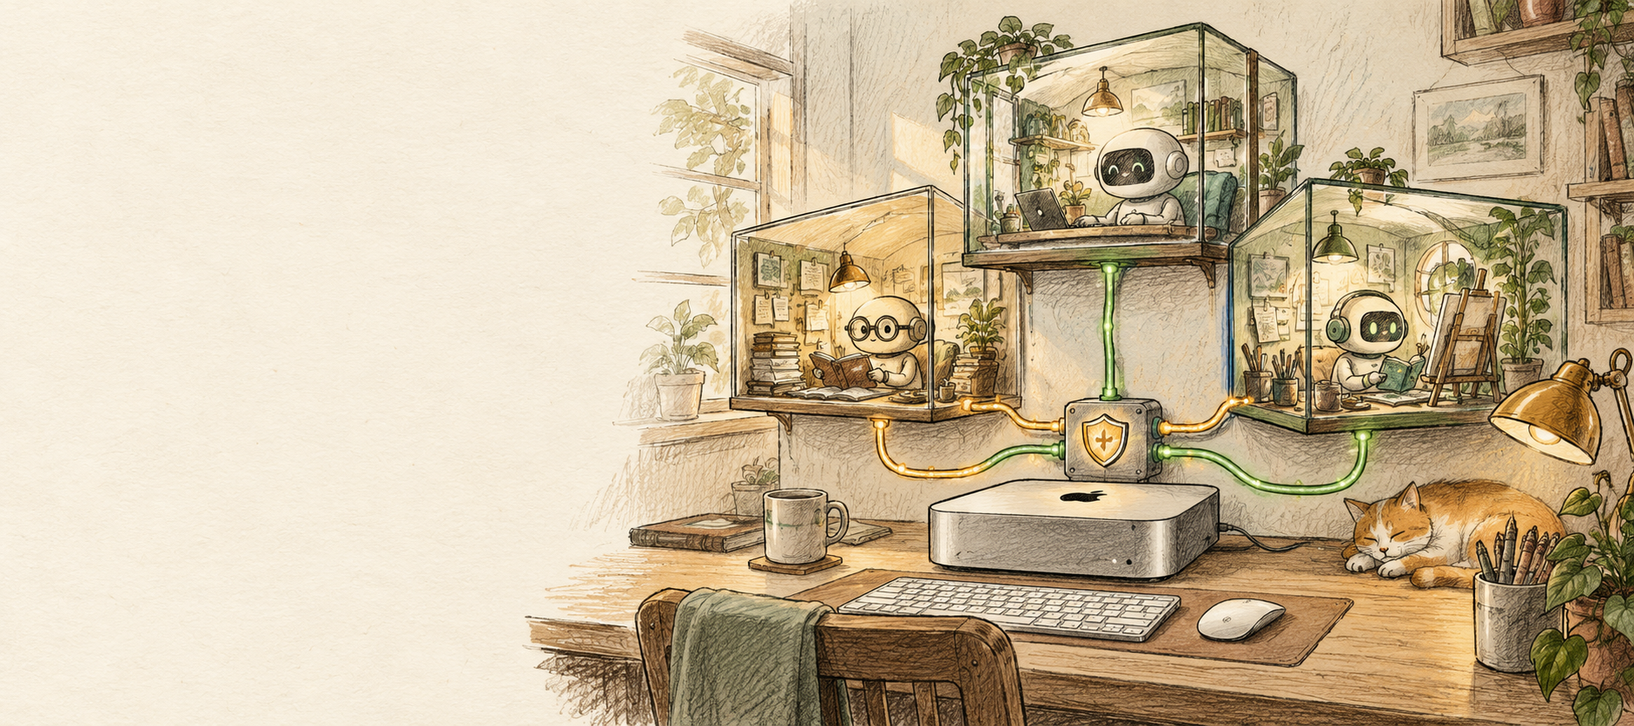
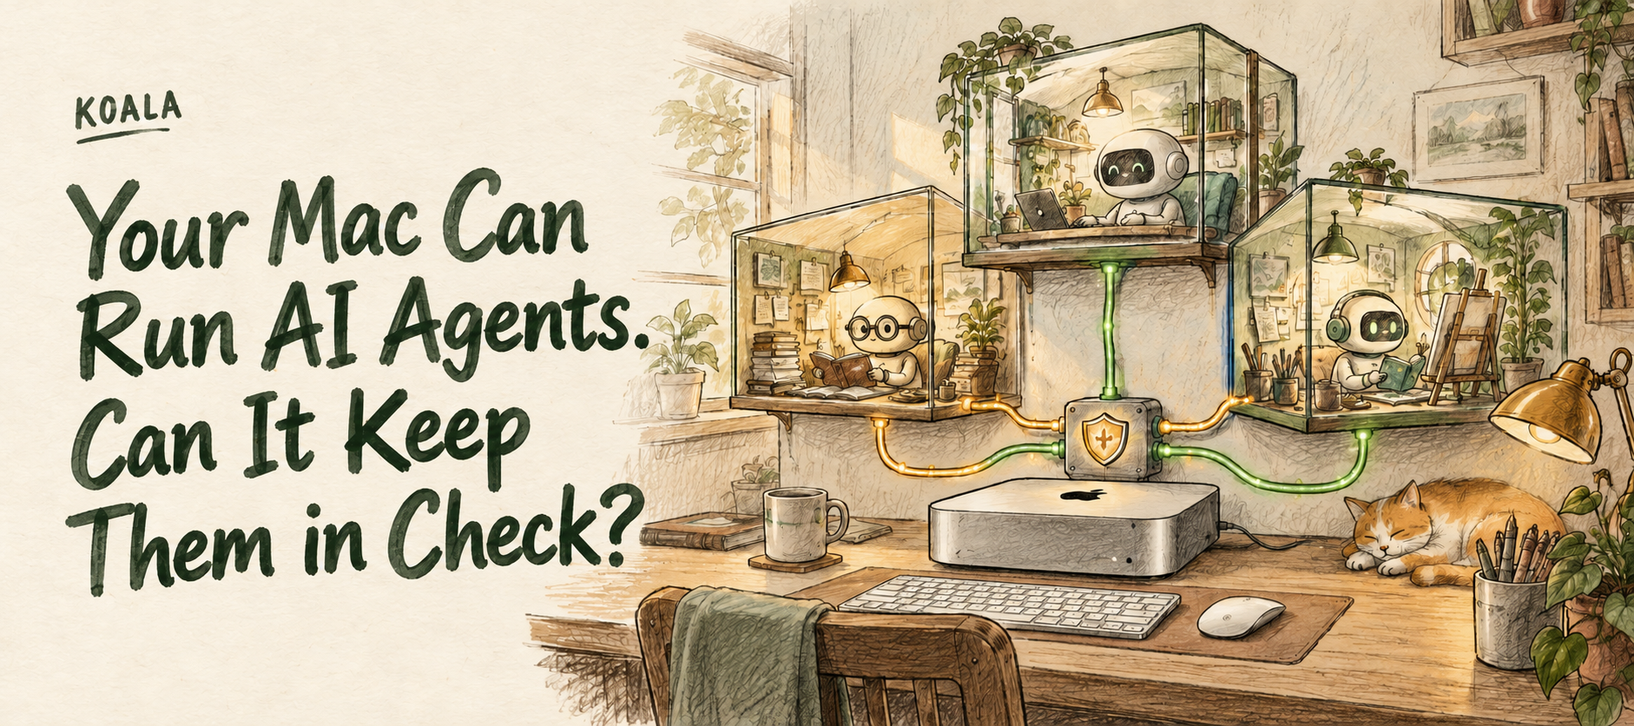
Update: Koala hero image

Changed region(s): [[0.0308, 0.0, 1.0, 1.0], [0.0308, 0.1244, 0.1233, 0.2177]]

diff --git a/2026/10/17/give-every-agent-its-own-room/index.html b/2026/10/17/give-every-agent-its-own-room/index.html
@@ -6,4 +6,4 @@
 </button>
 <button class="tbtn menu-toggle" data-menu-toggle aria-label=Menu>
 <svg viewBox="0 0 24 24" fill="none" stroke="currentColor" stroke-width="1.9" stroke-linecap="round"><path d="M4 7h16M4 12h16M4 17h16"/></svg></button></div></div></header><main id=main><div class="article-shell has-toc"><aside class=post-toc aria-label="Table of contents"><div class=toc-inner><p class=toc-title>On this page</p><nav id=TableOfContents><ul><li><a href=#the-boundary-is-the-design>The boundary is the design</a></li><li><a href=#container-or-vm-where-you-draw-it-decides-who-can-erase-it>Container or VM: where you draw it decides who can erase it</a></li><li><a href=#lean-when-small-is-enough-full-when-it-isnt>Lean when small is enough. Full when it isn&rsquo;t.</a></li><li><a href=#the-guest-sends-packets-koala-checks-the-destination>The guest sends packets. Koala checks the destination.</a></li><li><a href=#why-this-matters-now>Why this matters now</a></li></ul></nav></div></aside><div class=article-col><article><header class=post><p class=kicker>Building with ai</p><h1>Give Every Agent Its Own Room</h1><p class=dek>Running a model locally is the easy part. The agent still needs a shell, a network, and tools it can reach. Koala gives every workload its own Linux VM on Apple Silicon, with access controls that stay on the Mac.</p><div class=byline><span class=avatar>KK</span><div><b>Kunal Kushwaha</b> · Leading AI strategy and applied systems<br><time datetime=2026-10-17>October 17, 2026</time>
-<span class=sep>·</span> 5 min read</div></div></header><div class=post-content><figure><div class=fig-card><img src=hero.png alt="Three small robots work in their own glass-walled rooms on a Mac-filled desk. The access controls live outside." loading=lazy decoding=async></div><figcaption>Three small robots work in their own glass-walled rooms on a Mac-filled desk. The access controls live outside.</figcaption></figure><p>Running a model locally was the easy part. The agent connected to it is a different problem.</p><p>Mac Mini and Mac Studio quietly became the favourite hardware for home and small-team LLM labs. The unified memory architecture handles surprisingly large models, the machines run silent all day, and the price is reasonable compared to a GPU workstation. People have Ollama and MLX running on the shelf next to the router, and they are starting to point agents at them. That is where the interesting question appears.</p><p>An agent needs a shell, a filesystem, tools it can reach, somewhere to write its work. Give it those without a boundary and you have moved the risk rather than removed it. The model lives on your Mac, but the agent is browsing, writing code, calling APIs, and reading files. All of it through your network, your credentials, and your kernel.</p><p>I explored this problem a few months ago on a Linux host with <a href=https://github.com/kunalkushwaha/Kagebox>Kagebox</a>: a spare laptop running one Linux VM, an egress latch, and a credential broker that kept API keys on the host side. The lesson from that experiment was simple: a control the agent can reach is not a control. Koala is the same idea, native on Apple Silicon.</p><h2 id=the-boundary-is-the-design>The boundary is the design</h2><p>macOS already ships a native virtualization framework. Most lightweight container workflows on Mac still put workloads behind one shared Linux VM. Colima and Docker Desktop both do this. That means one kernel, one network stack, one compromise radius. Koala makes each job, service, or agent its own VM instead. It is written mostly in Swift, so the host-side controls use macOS APIs directly rather than wrapping Linux tooling.</p><figure><div class=fig-card><img src=diagram-boundary.svg alt="The Koala manager runs on the Mac. The agent runs in its own guest. Network checks and credential grants stay on the host side, where guest root cannot reach them." loading=lazy decoding=async></div><figcaption>The Koala manager runs on the Mac. The agent runs in its own guest. Network checks and credential grants stay on the host side, where guest root cannot reach them.</figcaption></figure><p>Every workload gets its own guest. The access controls stay outside it, on the Mac host. That asymmetry is the whole design.</p><h2 id=container-or-vm-where-you-draw-it-decides-who-can-erase-it>Container or VM: where you draw it decides who can erase it</h2><table><thead><tr><th>Tool</th><th>What it gives you</th><th>Where workloads are separated</th></tr></thead><tbody><tr><td>Lima</td><td>General Linux VMs; supports Apple&rsquo;s vz backend</td><td>VM boundary; often used to host container tools</td></tr><tr><td>Colima</td><td>A convenient Docker/containerd environment built on Lima</td><td>Containers share the Linux VM&rsquo;s kernel</td></tr><tr><td>Docker Desktop</td><td>Managed Docker Engine and containers on macOS</td><td>Containers share the managed Linux VM&rsquo;s kernel</td></tr><tr><td><strong>Koala</strong></td><td>One Linux VM per job, service, or agent</td><td>Each workload gets its own kernel, disk, and network policy</td></tr></tbody></table><p>The difference is where the policy enforcement runs. In a container model, the agent runs inside the shared VM, and with root in that VM it can adjust its own firewall. In Koala&rsquo;s model, the network check runs on the Mac host, in a Go process the guest has no access to. A workload can be compromised down to root and still cannot rewrite the rule that limits it.</p><p>AWS shipped Strands Box around the same time: an open-source sandbox in developer preview that uses macOS Seatbelt for containment, with policies covering shell, Python, MCP, and network actions. It keeps the agent in the developer&rsquo;s existing environment. Koala takes the VM route. Both are right that the boundary matters. They disagree on where to draw it.</p><h2 id=lean-when-small-is-enough-full-when-it-isnt>Lean when small is enough. Full when it isn&rsquo;t.</h2><figure><div class=fig-card><img src=diagram-profiles.svg alt="Two profiles: Lean runs one OCI image with minimal init. Full boots a Linux distribution with systemd and Docker Engine inside the guest. Both use a verified kernel from the Koala runtime." loading=lazy decoding=async></div><figcaption>Two profiles: Lean runs one OCI image with minimal init. Full boots a Linux distribution with systemd and Docker Engine inside the guest. Both use a verified kernel from the Koala runtime.</figcaption></figure><p><strong>Lean</strong> starts one OCI image with a minimal init: a microVM for a focused task. One image, one job, as small as it can be.</p><p><strong>Full</strong> boots a Linux distribution with systemd and Docker Engine inside the guest, for agents that need a familiar server environment, or need to run Docker inside their own VM.</p><p>In both cases the image provides the filesystem and Koala supplies the kernel. The guest cannot swap the kernel out.</p><h2 id=the-guest-sends-packets-koala-checks-the-destination>The guest sends packets. Koala checks the destination.</h2><p>Each VM has a dedicated <code>koala-net</code> helper, written in Go and built on <a href=https://github.com/containers/gvisor-tap-vsock>gVisor&rsquo;s userspace network stack</a>. Before traffic leaves through a Mac host socket, Koala checks where it is going against that VM&rsquo;s policy.</p><figure><div class=fig-card><img src=diagram-network.svg alt="Guest packets pass through koala-net and hit host policy. Permitted traffic reaches its destination. Traffic not on the allowlist is dropped on the host, outside the guest." loading=lazy decoding=async></div><figcaption>Guest packets pass through koala-net and hit host policy. Permitted traffic reaches its destination. Traffic not on the allowlist is dropped on the host, outside the guest.</figcaption></figure><p>The check runs on the host. Guest root cannot turn it off. VMs have no shared bridge or peer access by default, so a compromised workload cannot reach its neighbors through the network either.</p><p>Koala also brings <strong>policies and agent templates</strong> together. A template can prepare an agent&rsquo;s VM, its setup, its volume mounts, and its access grants, then show you the full plan before anything runs. With the credential broker, an agent can use an approved API capability while the key stays in the Mac&rsquo;s Keychain. The agent sees a proxied endpoint, never the secret.</p><h2 id=why-this-matters-now>Why this matters now</h2><p>The scarce thing in agent work is not capability. Models are capable. The scarce thing is a safe place to run them. <a href=/2026/06/09/safe-deployment-is-the-new-scarcity/>I argued a few months ago</a> that safe deployment is the new scarcity; agents are where that argument goes next. A sandbox, a credential broker, a network policy enforced from outside the guest: these are the controls we already built for people and for services, pointed at a new kind of worker.</p><p>Koala is in preview. It requires Apple Silicon and macOS 26 or newer.</p><p>Explore <a href=https://kunalkushwaha.github.io/homebrew-koala/how-it-works/>how it works</a> or the <a href=https://github.com/kunalkushwaha/homebrew-koala>project on GitHub</a>.</p><hr><p>The model lives on your Mac. The agent lives in its own room. The controls never cross the line between them.</p><p>That asymmetry is the whole design.</p></div><div class=post-foot><div class=tags><a class=tag href=/tags/ai-native/>ai-native</a><a class=tag href=/tags/agents/>agents</a><a class=tag href=/tags/security/>security</a><a class=tag href=/tags/sandbox/>sandbox</a><a class=tag href=/tags/apple-silicon/>apple-silicon</a><a class=tag href=/tags/building/>building</a></div><p class=signoff>Thanks for reading. Disagreements and counter-examples welcome.</p><nav class=post-nav aria-label="More posts"><a class=prev href=/2026/08/11/give-the-agent-a-desk-not-your-keys/><div class=dir>← Previous</div><div class=ttl>Give the Agent a Desk, Not Your Keys</div></a><span></span></nav></div><section class=comments id=comments aria-label=Comments><h2 class=comments-title>Comments</h2><div id=giscus-mount class=giscus></div><script>(function(){function t(){return document.documentElement.getAttribute("data-theme")==="dark"?"dark":"light"}var n={"data-repo":"kunalkushwaha/kunalkushwaha.github.io","data-repo-id":"MDEwOlJlcG9zaXRvcnkzMDkyNjQ3OA==","data-category":"Q&A","data-category-id":"DIC_kwDOAdfmjs4C-1AA","data-mapping":"pathname","data-strict":"0","data-reactions-enabled":"1","data-emit-metadata":"0","data-input-position":"bottom","data-lang":"en","data-loading":"lazy","data-theme":t()},e=document.createElement("script");e.src="https://giscus.app/client.js",Object.keys(n).forEach(function(t){e.setAttribute(t,n[t])}),e.crossOrigin="anonymous",e.async=!0,document.getElementById("giscus-mount").appendChild(e),new MutationObserver(function(){var e=document.querySelector("iframe.giscus-frame");e&&e.contentWindow.postMessage({giscus:{setConfig:{theme:t()}}},"https://giscus.app")}).observe(document.documentElement,{attributes:!0,attributeFilter:["data-theme"]})})()</script></section></article></div></div></main><footer class=site-foot><div class=wrap-wide><div class=cols><p class=blurb>Written while building. If it resonated, the best compliment is to argue with it.</p><div class=links><a href=https://github.com/kunalkushwaha aria-label=GitHub rel=me>GitHub</a><a href=https://www.linkedin.com/in/kunalkushwaha/ aria-label=LinkedIn rel=me>LinkedIn</a><a href=https://x.com/kunalkushwaha aria-label=X rel=me>X / Twitter</a><a href=mailto:kunal.kushwaha@gmail.com>Email</a></div></div><p class=fine>© 2026 Kunal Kushwaha · Leading AI strategy and applied systems · Built with Hugo & the Praxis theme.</p></div></footer><script src=/js/app.min.ab1fc0504fe5d7bc789f2a8b7fda2fa29c8c2a836ce3f3f26257764bf016161a.js integrity="sha256-qx/AUE/l17x4nyqLf9ovopyMKoNs4/PyYld2S/AWFho=" defer></script></body></html>
+<span class=sep>·</span> 5 min read</div></div></header><div class=post-content><figure><div class=fig-card><img src=hero.png alt="Your Mac Can Run AI Agents. Can It Keep Them in Check? Three robots work in their own glass-walled rooms, connected to a Mac Mini on the desk below." loading=lazy decoding=async></div><figcaption>Your Mac Can Run AI Agents. Can It Keep Them in Check? Three robots work in their own glass-walled rooms, connected to a Mac Mini on the desk below.</figcaption></figure><p>Running a model locally was the easy part. The agent connected to it is a different problem.</p><p>Mac Mini and Mac Studio quietly became the favourite hardware for home and small-team LLM labs. The unified memory architecture handles surprisingly large models, the machines run silent all day, and the price is reasonable compared to a GPU workstation. People have Ollama and MLX running on the shelf next to the router, and they are starting to point agents at them. That is where the interesting question appears.</p><p>An agent needs a shell, a filesystem, tools it can reach, somewhere to write its work. Give it those without a boundary and you have moved the risk rather than removed it. The model lives on your Mac, but the agent is browsing, writing code, calling APIs, and reading files. All of it through your network, your credentials, and your kernel.</p><p>I explored this problem a few months ago on a Linux host with <a href=https://github.com/kunalkushwaha/Kagebox>Kagebox</a>: a spare laptop running one Linux VM, an egress latch, and a credential broker that kept API keys on the host side. The lesson from that experiment was simple: a control the agent can reach is not a control. Koala is the same idea, native on Apple Silicon.</p><h2 id=the-boundary-is-the-design>The boundary is the design</h2><p>macOS already ships a native virtualization framework. Most lightweight container workflows on Mac still put workloads behind one shared Linux VM. Colima and Docker Desktop both do this. That means one kernel, one network stack, one compromise radius. Koala makes each job, service, or agent its own VM instead. It is written mostly in Swift, so the host-side controls use macOS APIs directly rather than wrapping Linux tooling.</p><figure><div class=fig-card><img src=diagram-boundary.svg alt="The Koala manager runs on the Mac. The agent runs in its own guest. Network checks and credential grants stay on the host side, where guest root cannot reach them." loading=lazy decoding=async></div><figcaption>The Koala manager runs on the Mac. The agent runs in its own guest. Network checks and credential grants stay on the host side, where guest root cannot reach them.</figcaption></figure><p>Every workload gets its own guest. The access controls stay outside it, on the Mac host. That asymmetry is the whole design.</p><h2 id=container-or-vm-where-you-draw-it-decides-who-can-erase-it>Container or VM: where you draw it decides who can erase it</h2><table><thead><tr><th>Tool</th><th>What it gives you</th><th>Where workloads are separated</th></tr></thead><tbody><tr><td>Lima</td><td>General Linux VMs; supports Apple&rsquo;s vz backend</td><td>VM boundary; often used to host container tools</td></tr><tr><td>Colima</td><td>A convenient Docker/containerd environment built on Lima</td><td>Containers share the Linux VM&rsquo;s kernel</td></tr><tr><td>Docker Desktop</td><td>Managed Docker Engine and containers on macOS</td><td>Containers share the managed Linux VM&rsquo;s kernel</td></tr><tr><td><strong>Koala</strong></td><td>One Linux VM per job, service, or agent</td><td>Each workload gets its own kernel, disk, and network policy</td></tr></tbody></table><p>The difference is where the policy enforcement runs. In a container model, the agent runs inside the shared VM, and with root in that VM it can adjust its own firewall. In Koala&rsquo;s model, the network check runs on the Mac host, in a Go process the guest has no access to. A workload can be compromised down to root and still cannot rewrite the rule that limits it.</p><p>AWS shipped Strands Box around the same time: an open-source sandbox in developer preview that uses macOS Seatbelt for containment, with policies covering shell, Python, MCP, and network actions. It keeps the agent in the developer&rsquo;s existing environment. Koala takes the VM route. Both are right that the boundary matters. They disagree on where to draw it.</p><h2 id=lean-when-small-is-enough-full-when-it-isnt>Lean when small is enough. Full when it isn&rsquo;t.</h2><figure><div class=fig-card><img src=diagram-profiles.svg alt="Two profiles: Lean runs one OCI image with minimal init. Full boots a Linux distribution with systemd and Docker Engine inside the guest. Both use a verified kernel from the Koala runtime." loading=lazy decoding=async></div><figcaption>Two profiles: Lean runs one OCI image with minimal init. Full boots a Linux distribution with systemd and Docker Engine inside the guest. Both use a verified kernel from the Koala runtime.</figcaption></figure><p><strong>Lean</strong> starts one OCI image with a minimal init: a microVM for a focused task. One image, one job, as small as it can be.</p><p><strong>Full</strong> boots a Linux distribution with systemd and Docker Engine inside the guest, for agents that need a familiar server environment, or need to run Docker inside their own VM.</p><p>In both cases the image provides the filesystem and Koala supplies the kernel. The guest cannot swap the kernel out.</p><h2 id=the-guest-sends-packets-koala-checks-the-destination>The guest sends packets. Koala checks the destination.</h2><p>Each VM has a dedicated <code>koala-net</code> helper, written in Go and built on <a href=https://github.com/containers/gvisor-tap-vsock>gVisor&rsquo;s userspace network stack</a>. Before traffic leaves through a Mac host socket, Koala checks where it is going against that VM&rsquo;s policy.</p><figure><div class=fig-card><img src=diagram-network.svg alt="Guest packets pass through koala-net and hit host policy. Permitted traffic reaches its destination. Traffic not on the allowlist is dropped on the host, outside the guest." loading=lazy decoding=async></div><figcaption>Guest packets pass through koala-net and hit host policy. Permitted traffic reaches its destination. Traffic not on the allowlist is dropped on the host, outside the guest.</figcaption></figure><p>The check runs on the host. Guest root cannot turn it off. VMs have no shared bridge or peer access by default, so a compromised workload cannot reach its neighbors through the network either.</p><p>Koala also brings <strong>policies and agent templates</strong> together. A template can prepare an agent&rsquo;s VM, its setup, its volume mounts, and its access grants, then show you the full plan before anything runs. With the credential broker, an agent can use an approved API capability while the key stays in the Mac&rsquo;s Keychain. The agent sees a proxied endpoint, never the secret.</p><h2 id=why-this-matters-now>Why this matters now</h2><p>The scarce thing in agent work is not capability. Models are capable. The scarce thing is a safe place to run them. <a href=/2026/06/09/safe-deployment-is-the-new-scarcity/>I argued a few months ago</a> that safe deployment is the new scarcity; agents are where that argument goes next. A sandbox, a credential broker, a network policy enforced from outside the guest: these are the controls we already built for people and for services, pointed at a new kind of worker.</p><p>Koala is in preview. It requires Apple Silicon and macOS 26 or newer.</p><p>Explore <a href=https://kunalkushwaha.github.io/homebrew-koala/how-it-works/>how it works</a> or the <a href=https://github.com/kunalkushwaha/homebrew-koala>project on GitHub</a>.</p><hr><p>The model lives on your Mac. The agent lives in its own room. The controls never cross the line between them.</p><p>That asymmetry is the whole design.</p></div><div class=post-foot><div class=tags><a class=tag href=/tags/ai-native/>ai-native</a><a class=tag href=/tags/agents/>agents</a><a class=tag href=/tags/security/>security</a><a class=tag href=/tags/sandbox/>sandbox</a><a class=tag href=/tags/apple-silicon/>apple-silicon</a><a class=tag href=/tags/building/>building</a></div><p class=signoff>Thanks for reading. Disagreements and counter-examples welcome.</p><nav class=post-nav aria-label="More posts"><a class=prev href=/2026/08/11/give-the-agent-a-desk-not-your-keys/><div class=dir>← Previous</div><div class=ttl>Give the Agent a Desk, Not Your Keys</div></a><span></span></nav></div><section class=comments id=comments aria-label=Comments><h2 class=comments-title>Comments</h2><div id=giscus-mount class=giscus></div><script>(function(){function t(){return document.documentElement.getAttribute("data-theme")==="dark"?"dark":"light"}var n={"data-repo":"kunalkushwaha/kunalkushwaha.github.io","data-repo-id":"MDEwOlJlcG9zaXRvcnkzMDkyNjQ3OA==","data-category":"Q&A","data-category-id":"DIC_kwDOAdfmjs4C-1AA","data-mapping":"pathname","data-strict":"0","data-reactions-enabled":"1","data-emit-metadata":"0","data-input-position":"bottom","data-lang":"en","data-loading":"lazy","data-theme":t()},e=document.createElement("script");e.src="https://giscus.app/client.js",Object.keys(n).forEach(function(t){e.setAttribute(t,n[t])}),e.crossOrigin="anonymous",e.async=!0,document.getElementById("giscus-mount").appendChild(e),new MutationObserver(function(){var e=document.querySelector("iframe.giscus-frame");e&&e.contentWindow.postMessage({giscus:{setConfig:{theme:t()}}},"https://giscus.app")}).observe(document.documentElement,{attributes:!0,attributeFilter:["data-theme"]})})()</script></section></article></div></div></main><footer class=site-foot><div class=wrap-wide><div class=cols><p class=blurb>Written while building. If it resonated, the best compliment is to argue with it.</p><div class=links><a href=https://github.com/kunalkushwaha aria-label=GitHub rel=me>GitHub</a><a href=https://www.linkedin.com/in/kunalkushwaha/ aria-label=LinkedIn rel=me>LinkedIn</a><a href=https://x.com/kunalkushwaha aria-label=X rel=me>X / Twitter</a><a href=mailto:kunal.kushwaha@gmail.com>Email</a></div></div><p class=fine>© 2026 Kunal Kushwaha · Leading AI strategy and applied systems · Built with Hugo & the Praxis theme.</p></div></footer><script src=/js/app.min.ab1fc0504fe5d7bc789f2a8b7fda2fa29c8c2a836ce3f3f26257764bf016161a.js integrity="sha256-qx/AUE/l17x4nyqLf9ovopyMKoNs4/PyYld2S/AWFho=" defer></script></body></html>

diff --git a/tags/ai-native/index.html b/tags/ai-native/index.html
@@ -1,11 +1,11 @@
-<!doctype html><html lang=en-us data-palette=cobalt data-theme=light><head><meta charset=utf-8><meta name=viewport content="width=device-width,initial-scale=1"><title>Ai-Native · Kunal Kushwaha</title><meta name=description content="Kunal Kushwaha leads applied AI and builds agentic systems, and is the founder of AgenticGoKit, writing about AI leadership, agentic AI, cloud native platforms, and what he's learning along the way."><meta name=author content="Kunal Kushwaha"><meta name=theme-color content="#c0441f"><meta property="og:site_name" content="Kunal Kushwaha"><meta property="og:title" content="Ai-Native"><meta property="og:description" content="Kunal Kushwaha leads applied AI and builds agentic systems, and is the founder of AgenticGoKit, writing about AI leadership, agentic AI, cloud native platforms, and what he's learning along the way."><meta property="og:type" content="website"><meta property="og:url" content="https://kunalkushwaha.github.io/tags/ai-native/"><meta name=twitter:card content="summary_large_image"><meta name=twitter:creator content="@kunalkushwaha"><link rel=canonical href=https://kunalkushwaha.github.io/tags/ai-native/><link rel=alternate type=application/rss+xml href=https://kunalkushwaha.github.io/tags/ai-native/index.xml title="Kunal Kushwaha"><link rel=preconnect href=https://fonts.googleapis.com><link rel=preconnect href=https://fonts.gstatic.com crossorigin><link href="https://fonts.googleapis.com/css2?family=Fraunces:ital,opsz,wght@0,9..144,400;0,9..144,500;0,9..144,600;0,9..144,700;1,9..144,400;1,9..144,500&family=Newsreader:ital,opsz,wght@0,6..72,400;0,6..72,500;1,6..72,400&family=JetBrains+Mono:wght@400;500&display=swap" rel=stylesheet><link rel=stylesheet href=/css/main.min.78f537c634de241d2b2ef310b8ff55bfc824549dc4cf6e69ab38a1972dc2b391.css integrity="sha256-ePU3xjTeJB0rLvMQuP9Vv8gkVJ3Ez25pqzihly3Cs5E="><link rel=alternate type=application/rss+xml href=https://kunalkushwaha.github.io/tags/ai-native/index.xml title="Kunal Kushwaha"><script async src="https://www.googletagmanager.com/gtag/js?id=G-K16B935QET"></script><script>window.dataLayer=window.dataLayer||[];function gtag(){dataLayer.push(arguments)}gtag("js",new Date),gtag("config","G-K16B935QET")</script><script>(function(){try{var t,n,e=localStorage.getItem("praxis-theme");e||(n=window.matchMedia&&window.matchMedia("(prefers-color-scheme: dark)").matches,e=n?"dark":"light"),document.documentElement.setAttribute("data-theme",e),t=localStorage.getItem("praxis-palette"),t&&document.documentElement.setAttribute("data-palette",t)}catch{}})()</script></head><body><a href=#main class=skip-link>Skip to content</a><div class=grain aria-hidden=true></div><header class=site-head><div class="wrap-wide bar"><a class=brand href=/ aria-label="Kunal Kushwaha — home"><span class=mark>KK</span>
+<!doctype html><html lang=en-us data-palette=cobalt data-theme=light><head><meta charset=utf-8><meta name=viewport content="width=device-width,initial-scale=1"><title>AI Native · Kunal Kushwaha</title><meta name=description content="Kunal Kushwaha leads applied AI and builds agentic systems, and is the founder of AgenticGoKit, writing about AI leadership, agentic AI, cloud native platforms, and what he's learning along the way."><meta name=author content="Kunal Kushwaha"><meta name=theme-color content="#c0441f"><meta property="og:site_name" content="Kunal Kushwaha"><meta property="og:title" content="AI Native"><meta property="og:description" content="Kunal Kushwaha leads applied AI and builds agentic systems, and is the founder of AgenticGoKit, writing about AI leadership, agentic AI, cloud native platforms, and what he's learning along the way."><meta property="og:type" content="website"><meta property="og:url" content="https://kunalkushwaha.github.io/tags/ai-native/"><meta name=twitter:card content="summary_large_image"><meta name=twitter:creator content="@kunalkushwaha"><link rel=canonical href=https://kunalkushwaha.github.io/tags/ai-native/><link rel=alternate type=application/rss+xml href=https://kunalkushwaha.github.io/tags/ai-native/index.xml title="Kunal Kushwaha"><link rel=preconnect href=https://fonts.googleapis.com><link rel=preconnect href=https://fonts.gstatic.com crossorigin><link href="https://fonts.googleapis.com/css2?family=Fraunces:ital,opsz,wght@0,9..144,400;0,9..144,500;0,9..144,600;0,9..144,700;1,9..144,400;1,9..144,500&family=Newsreader:ital,opsz,wght@0,6..72,400;0,6..72,500;1,6..72,400&family=JetBrains+Mono:wght@400;500&display=swap" rel=stylesheet><link rel=stylesheet href=/css/main.min.78f537c634de241d2b2ef310b8ff55bfc824549dc4cf6e69ab38a1972dc2b391.css integrity="sha256-ePU3xjTeJB0rLvMQuP9Vv8gkVJ3Ez25pqzihly3Cs5E="><link rel=alternate type=application/rss+xml href=https://kunalkushwaha.github.io/tags/ai-native/index.xml title="Kunal Kushwaha"><script async src="https://www.googletagmanager.com/gtag/js?id=G-K16B935QET"></script><script>window.dataLayer=window.dataLayer||[];function gtag(){dataLayer.push(arguments)}gtag("js",new Date),gtag("config","G-K16B935QET")</script><script>(function(){try{var t,n,e=localStorage.getItem("praxis-theme");e||(n=window.matchMedia&&window.matchMedia("(prefers-color-scheme: dark)").matches,e=n?"dark":"light"),document.documentElement.setAttribute("data-theme",e),t=localStorage.getItem("praxis-palette"),t&&document.documentElement.setAttribute("data-palette",t)}catch{}})()</script></head><body><a href=#main class=skip-link>Skip to content</a><div class=grain aria-hidden=true></div><header class=site-head><div class="wrap-wide bar"><a class=brand href=/ aria-label="Kunal Kushwaha — home"><span class=mark>KK</span>
 <span class=name>Kunal Kushwaha<small>Leading AI strategy and applied systems</small></span></a><nav class=nav data-nav aria-label=Primary><a class=navlink href=/posts/>Writing</a><a class=navlink href=/tags/>Topics</a><a class=navlink href=/about/>About</a></nav><div class=controls><div class=palette-pick data-palette-pick><button class=tbtn data-palette-toggle aria-label="Choose color palette" title="Color palette">
 <svg viewBox="0 0 24 24" fill="none" stroke="currentColor" stroke-width="1.7" stroke-linecap="round" stroke-linejoin="round"><path d="M12 3a9 9 0 100 18c1 0 1.5-.8 1.5-1.6.0-.5-.2-.9-.5-1.2s-.5-.7-.5-1.2c0-.9.7-1.6 1.6-1.6H16a5 5 0 005-5C21 6.5 17 3 12 3z"/><circle cx="7.5" cy="11.5" r="1"/><circle cx="11" cy="7.5" r="1"/><circle cx="15.5" cy="8.5" r="1"/></svg></button><div class=swatches role=menu><span class="dot terracotta" role=menuitem tabindex=0 data-set-palette=terracotta title=Terracotta aria-current=false></span><span class="dot slate" role=menuitem tabindex=0 data-set-palette=slate title=Slate aria-current=false></span><span class="dot ink" role=menuitem tabindex=0 data-set-palette=ink title=Ink aria-current=false></span><span class="dot forest" role=menuitem tabindex=0 data-set-palette=forest title=Forest aria-current=false></span><span class="dot cobalt" role=menuitem tabindex=0 data-set-palette=cobalt title=Cobalt aria-current=true></span></div></div><button class=tbtn data-theme-toggle aria-label="Toggle dark mode" title="Toggle theme">
 <span class=sun><svg viewBox="0 0 24 24" fill="none" stroke="currentColor" stroke-width="1.8" stroke-linecap="round"><circle cx="12" cy="12" r="4.2"/><path d="M12 2.5v2m0 15v2M2.5 12h2m15 0h2M5 5l1.4 1.4M17.6 17.6 19 19M19 5l-1.4 1.4M6.4 17.6 5 19"/></svg></span>
 <span class=moon><svg viewBox="0 0 24 24" fill="none" stroke="currentColor" stroke-width="1.8" stroke-linecap="round" stroke-linejoin="round"><path d="M20 14.5A8 8 0 019.5 4 7 7 0 1020 14.5z"/></svg></span>
 </button>
 <button class="tbtn menu-toggle" data-menu-toggle aria-label=Menu>
-<svg viewBox="0 0 24 24" fill="none" stroke="currentColor" stroke-width="1.9" stroke-linecap="round"><path d="M4 7h16M4 12h16M4 17h16"/></svg></button></div></div></header><main id=main><div class=wrap><header class=list-head><p class=kicker>Ai-Native</p><h1>Ai-Native</h1></header><ul class=post-list style=margin-top:36px><li><a class=post-row href=/2026/10/17/give-every-agent-its-own-room/><div class=meta-line><time datetime=2026-10-17>Oct 17, 2026</time>
+<svg viewBox="0 0 24 24" fill="none" stroke="currentColor" stroke-width="1.9" stroke-linecap="round"><path d="M4 7h16M4 12h16M4 17h16"/></svg></button></div></div></header><main id=main><div class=wrap><header class=list-head><p class=kicker>AI Native</p><h1>AI Native</h1></header><ul class=post-list style=margin-top:36px><li><a class=post-row href=/2026/10/17/give-every-agent-its-own-room/><div class=meta-line><time datetime=2026-10-17>Oct 17, 2026</time>
 <span>·</span><span>5 min read</span><span>·</span><span class=tg>ai-native</span></div><h3>Give Every Agent Its Own Room</h3><p>Running a model locally is the easy part. The agent still needs a shell, a network, and tools it can reach. Koala gives every workload its own Linux VM on Apple Silicon, with access controls that stay on the Mac.</p><span class=more>Read <svg viewBox="0 0 24 24" fill="none" stroke="currentColor" stroke-width="1.9" stroke-linecap="round" stroke-linejoin="round"><path d="M5 12h14M13 6l6 6-6 6"/></svg></span></a></li><li><a class=post-row href=/2026/08/11/give-the-agent-a-desk-not-your-keys/><div class=meta-line><time datetime=2026-08-11>Aug 11, 2026</time>
 <span>·</span><span>9 min read</span><span>·</span><span class=tg>ai-native</span></div><h3>Give the Agent a Desk, Not Your Keys</h3><p>An autonomous agent with a shell is a coworker you cannot fully trust. Kagebox is an experiment in running one on a spare laptop: its own kernel, host held credentials, an egress latch it cannot reach, and a boundary that has to prove itself.</p><span class=more>Read <svg viewBox="0 0 24 24" fill="none" stroke="currentColor" stroke-width="1.9" stroke-linecap="round" stroke-linejoin="round"><path d="M5 12h14M13 6l6 6-6 6"/></svg></span></a></li><li><a class=post-row href=/2026/07/16/agentic-development-methodology-moment/><div class=meta-line><time datetime=2026-07-16>Jul 16, 2026</time>
 <span>·</span><span>16 min read</span><span>·</span><span class=tg>ai-native</span></div><h3>Agentic Development Needs Its Methodology Moment</h3><p>Every leap in who writes software was unlocked by process, not talent. AI agents are the next leap, and the teams winning with them gave their agent a methodology.</p><span class=more>Read <svg viewBox="0 0 24 24" fill="none" stroke="currentColor" stroke-width="1.9" stroke-linecap="round" stroke-linejoin="round"><path d="M5 12h14M13 6l6 6-6 6"/></svg></span></a></li><li><a class=post-row href=/2026/07/08/deterministic-video-ai-writes-the-screenplay/><div class=meta-line><time datetime=2026-07-08>Jul 8, 2026</time>

diff --git a/tags/index.html b/tags/index.html
@@ -10,7 +10,7 @@
 <span>·</span><span>0 min read</span></div><h3>Sandbox</h3><p></p><span class=more>Read <svg viewBox="0 0 24 24" fill="none" stroke="currentColor" stroke-width="1.9" stroke-linecap="round" stroke-linejoin="round"><path d="M5 12h14M13 6l6 6-6 6"/></svg></span></a></li><li><a class=post-row href=/tags/building/><div class=meta-line><time datetime=2026-10-17>Oct 17, 2026</time>
 <span>·</span><span>0 min read</span></div><h3>Building</h3><p></p><span class=more>Read <svg viewBox="0 0 24 24" fill="none" stroke="currentColor" stroke-width="1.9" stroke-linecap="round" stroke-linejoin="round"><path d="M5 12h14M13 6l6 6-6 6"/></svg></span></a></li><li><a class=post-row href=/tags/apple-silicon/><div class=meta-line><time datetime=2026-10-17>Oct 17, 2026</time>
 <span>·</span><span>0 min read</span></div><h3>Apple-Silicon</h3><p></p><span class=more>Read <svg viewBox="0 0 24 24" fill="none" stroke="currentColor" stroke-width="1.9" stroke-linecap="round" stroke-linejoin="round"><path d="M5 12h14M13 6l6 6-6 6"/></svg></span></a></li><li><a class=post-row href=/tags/ai-native/><div class=meta-line><time datetime=2026-10-17>Oct 17, 2026</time>
-<span>·</span><span>0 min read</span></div><h3>Ai-Native</h3><p></p><span class=more>Read <svg viewBox="0 0 24 24" fill="none" stroke="currentColor" stroke-width="1.9" stroke-linecap="round" stroke-linejoin="round"><path d="M5 12h14M13 6l6 6-6 6"/></svg></span></a></li><li><a class=post-row href=/tags/agents/><div class=meta-line><time datetime=2026-10-17>Oct 17, 2026</time>
+<span>·</span><span>0 min read</span></div><h3>AI Native</h3><p></p><span class=more>Read <svg viewBox="0 0 24 24" fill="none" stroke="currentColor" stroke-width="1.9" stroke-linecap="round" stroke-linejoin="round"><path d="M5 12h14M13 6l6 6-6 6"/></svg></span></a></li><li><a class=post-row href=/tags/agents/><div class=meta-line><time datetime=2026-10-17>Oct 17, 2026</time>
 <span>·</span><span>0 min read</span></div><h3>Agents</h3><p></p><span class=more>Read <svg viewBox="0 0 24 24" fill="none" stroke="currentColor" stroke-width="1.9" stroke-linecap="round" stroke-linejoin="round"><path d="M5 12h14M13 6l6 6-6 6"/></svg></span></a></li><li><a class=post-row href=/tags/process/><div class=meta-line><time datetime=2026-07-16>Jul 16, 2026</time>
 <span>·</span><span>0 min read</span></div><h3>Process</h3><p></p><span class=more>Read <svg viewBox="0 0 24 24" fill="none" stroke="currentColor" stroke-width="1.9" stroke-linecap="round" stroke-linejoin="round"><path d="M5 12h14M13 6l6 6-6 6"/></svg></span></a></li><li><a class=post-row href=/tags/engineering/><div class=meta-line><time datetime=2026-07-16>Jul 16, 2026</time>
 <span>·</span><span>0 min read</span></div><h3>Engineering</h3><p></p><span class=more>Read <svg viewBox="0 0 24 24" fill="none" stroke="currentColor" stroke-width="1.9" stroke-linecap="round" stroke-linejoin="round"><path d="M5 12h14M13 6l6 6-6 6"/></svg></span></a></li><li><a class=post-row href=/tags/agentic/><div class=meta-line><time datetime=2026-07-16>Jul 16, 2026</time>
